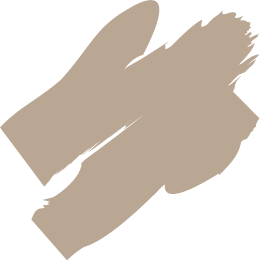
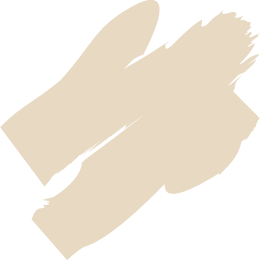
메인 스타일링

diff --git a/package/css/style.css b/package/css/style.css
@@ -29,6 +29,7 @@
     top:0;
     z-index: -1;
 }
+/* 
 .main_txt{
     width:100%;
     position: absolute;
@@ -36,7 +37,8 @@
     top:calc(50% - 40px);
     text-align: center;
     z-index: 2;
-}
+} 
+*/
 .main_txt_title{
     color:var(--text-color);
     font-size:80px;
@@ -48,12 +50,18 @@
 }
 .main_img{
     width:90%;
-    max-width:600px;
+    max-width:1000px;
     height:620px;
     position: relative;
     margin-left: auto;
     margin-right: auto;
+    display: flex;
+    flex-direction: column;
+    align-items: center;
+    justify-content: center;
+    gap: -20px;
 }
+/* 
 .main_img_code{
     position: absolute;
     left: 0;
@@ -74,11 +82,11 @@
 }
 .main_img_bottle{
     position: absolute;
-    /* left: calc(50% - 200px); */
     left:30%;
     bottom:0;
     width:40%;
 }
+*/
 .main_body{
     background: #fff;
     width:100%;

diff --git a/index.html b/index.html
@@ -35,11 +35,11 @@
         </div> 
         -->
         <div class="main_img">
-          <img src="/package/image/main_img01.png" alt="메인 이미지01">
+          <img src="/package/image/main_img02.png" alt="메인 이미지02">
           <div class="main_txt_title gmarket">
             디자이너가<p class="nanum">말아주는</p>퍼블리싱
           </div>
-          <img src="/package/image/main_img02.png" alt="메인 이미지02">
+          <img src="/package/image/main_img01.png" alt="메인 이미지01">
           <!-- 
           <img class="main_img_code" src="/package/image/main_code.png" alt="코드">
           <img class="main_img_design" src="/package/image/main_design.png" alt="디자인">
